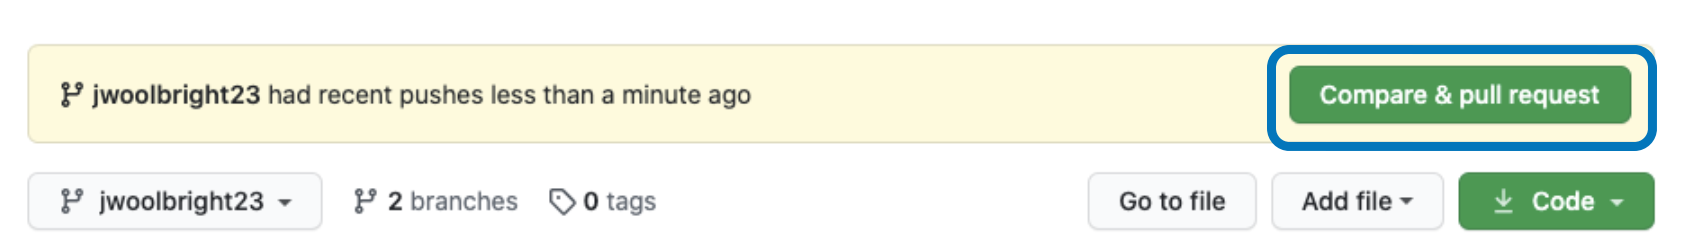
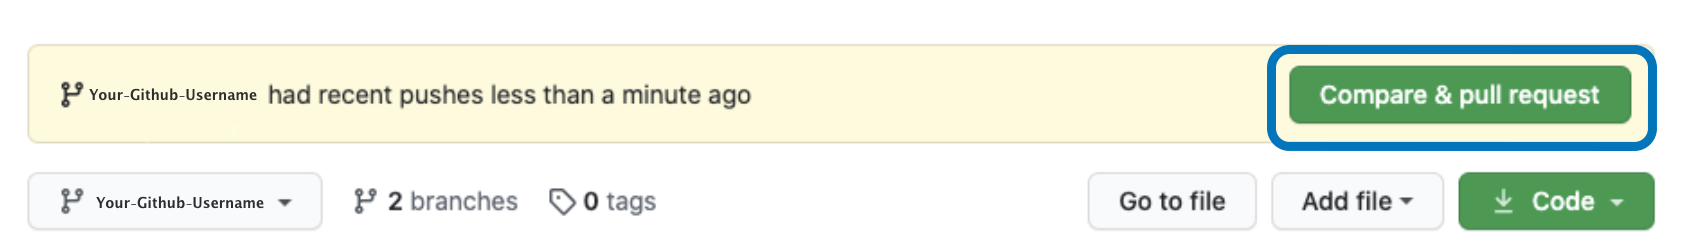
Removed John's name from compare and pull and added Step 7 readme updates

Changed region(s): [[0.0309, 0.3333, 0.1546, 0.4444], [0.0618, 0.75, 0.1546, 0.8611]]

diff --git a/README.md b/README.md
@@ -132,6 +132,6 @@ We believe that a congratulations is in order! You have just completed what migh
 
 Please feel free to share this with your friends and family to show them what you have accomplished.
 
-Join us on Slack! - slackWorkSpaceHere
+Join us on Slack! The LaunchCode community is always a slack message away. 
 
-Now lets jump into some more open-source project work - openSourceProjectsHere
+Now that you're done with your first open source project, join us on a much more robust **second project.**
